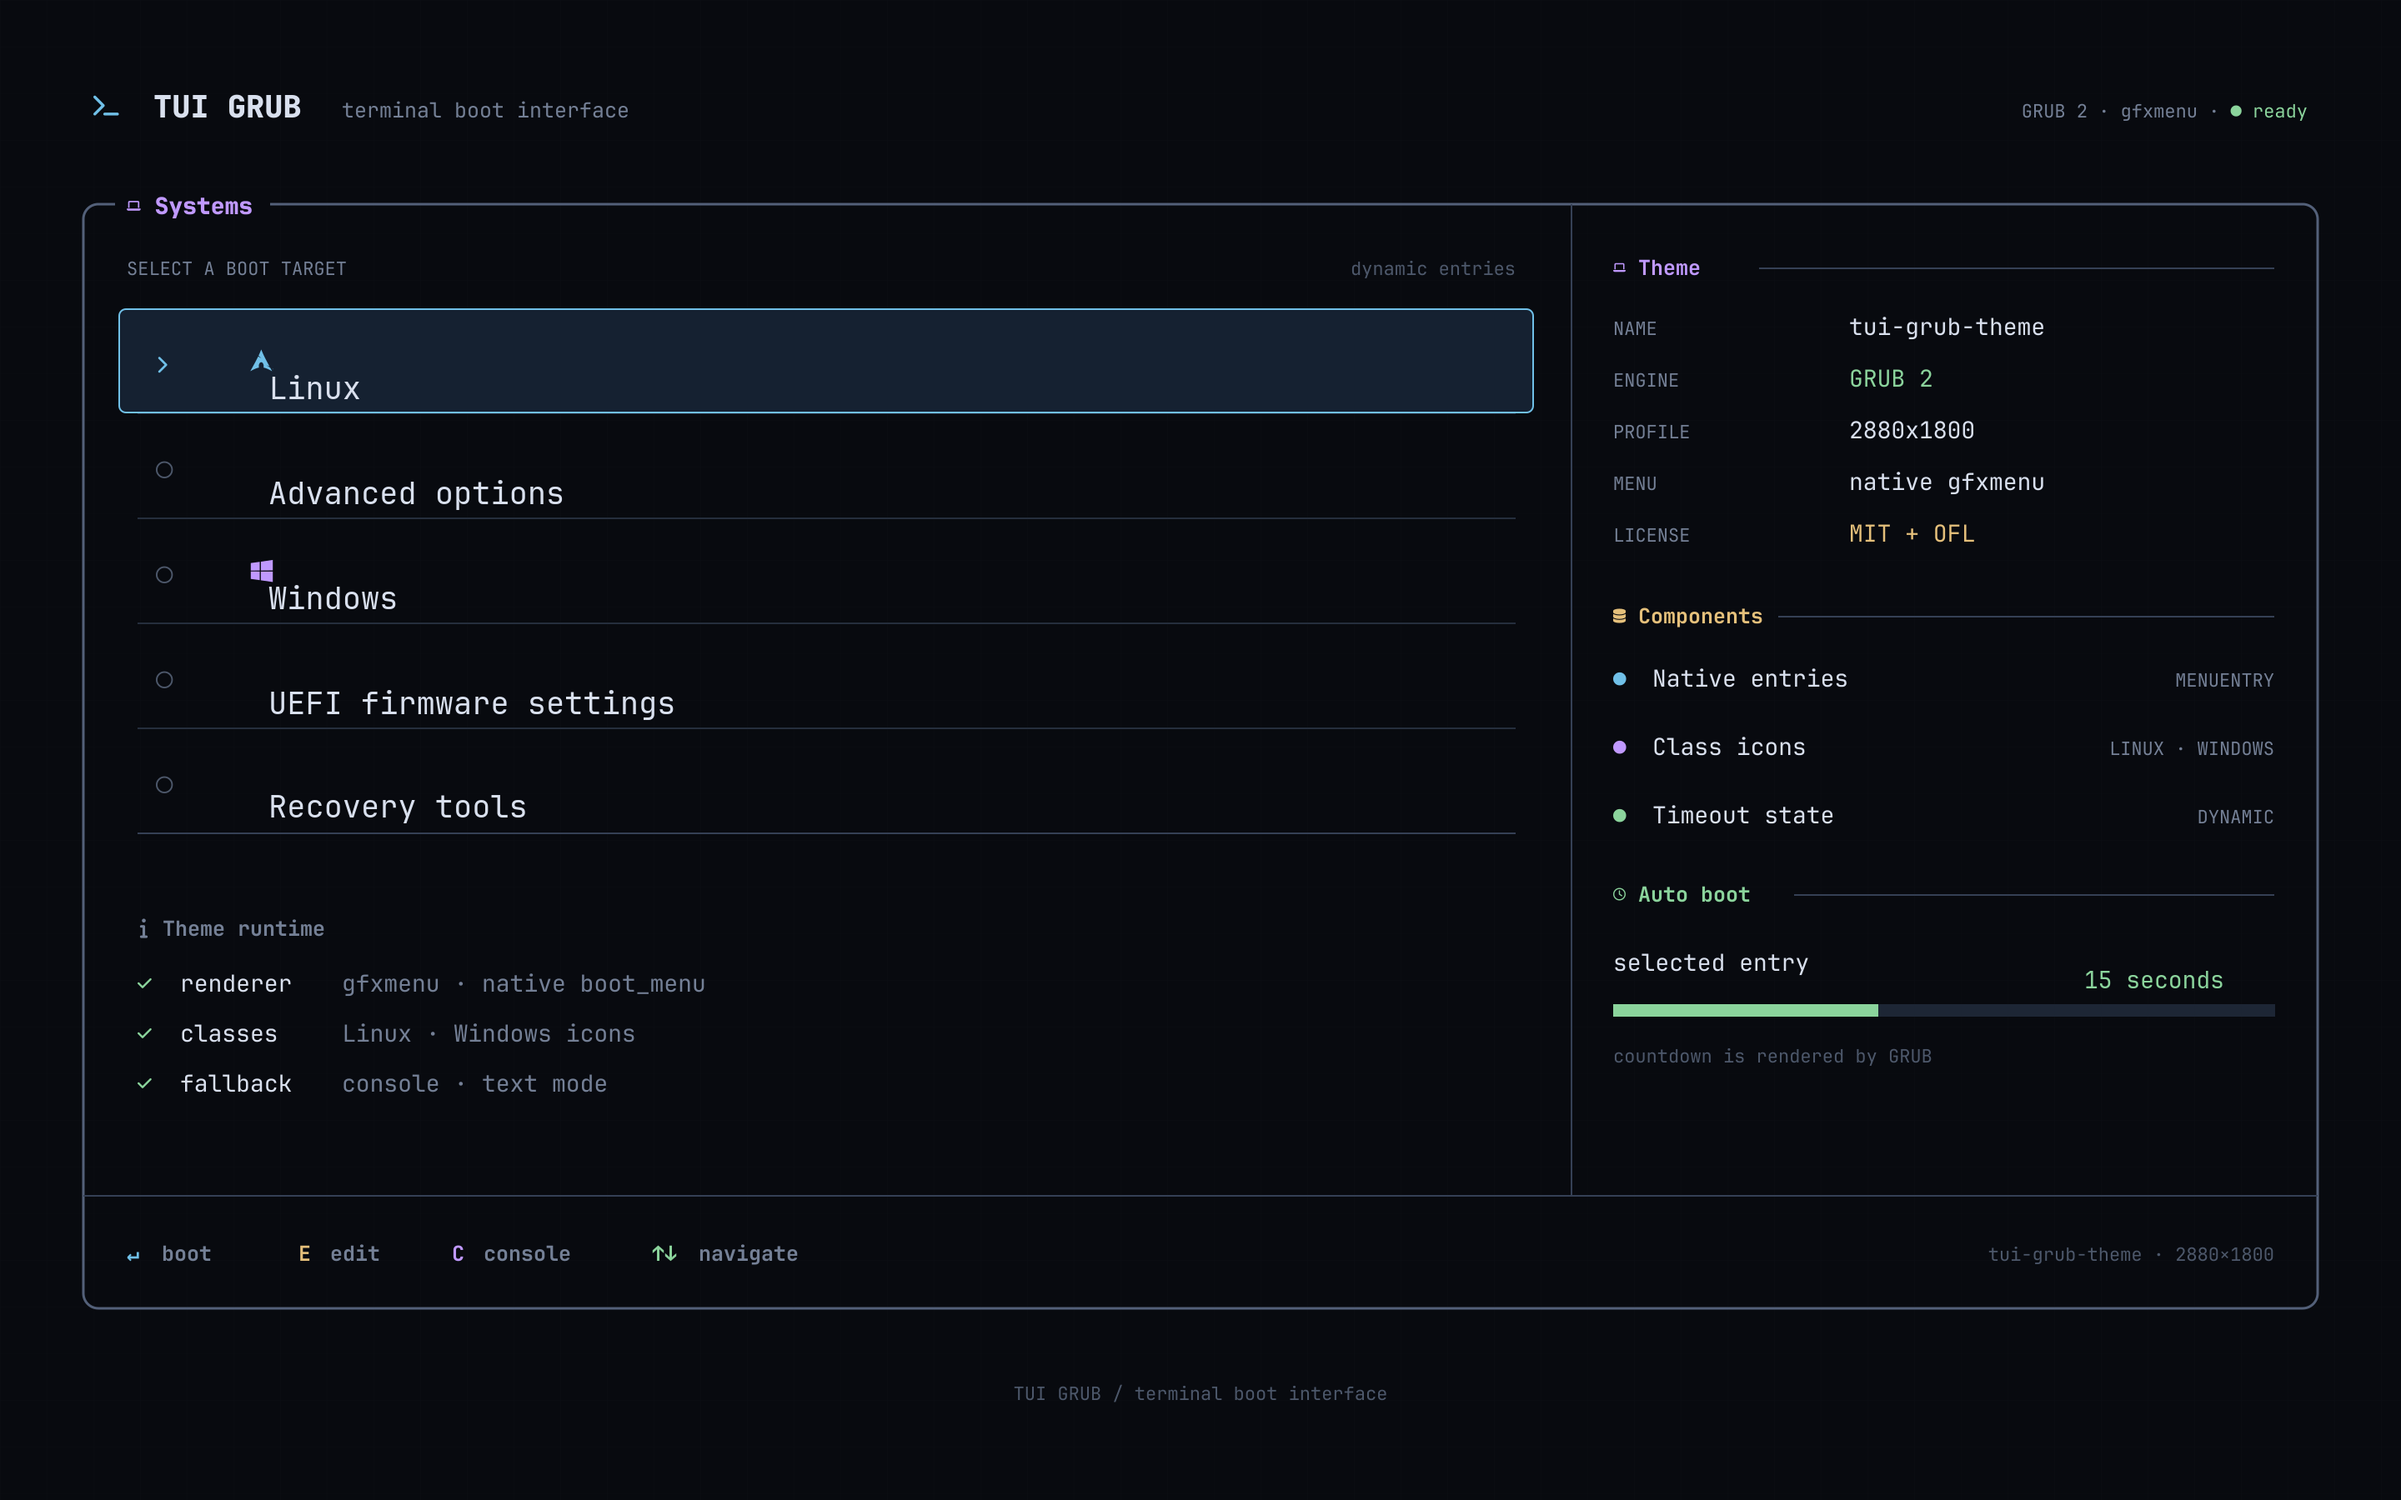
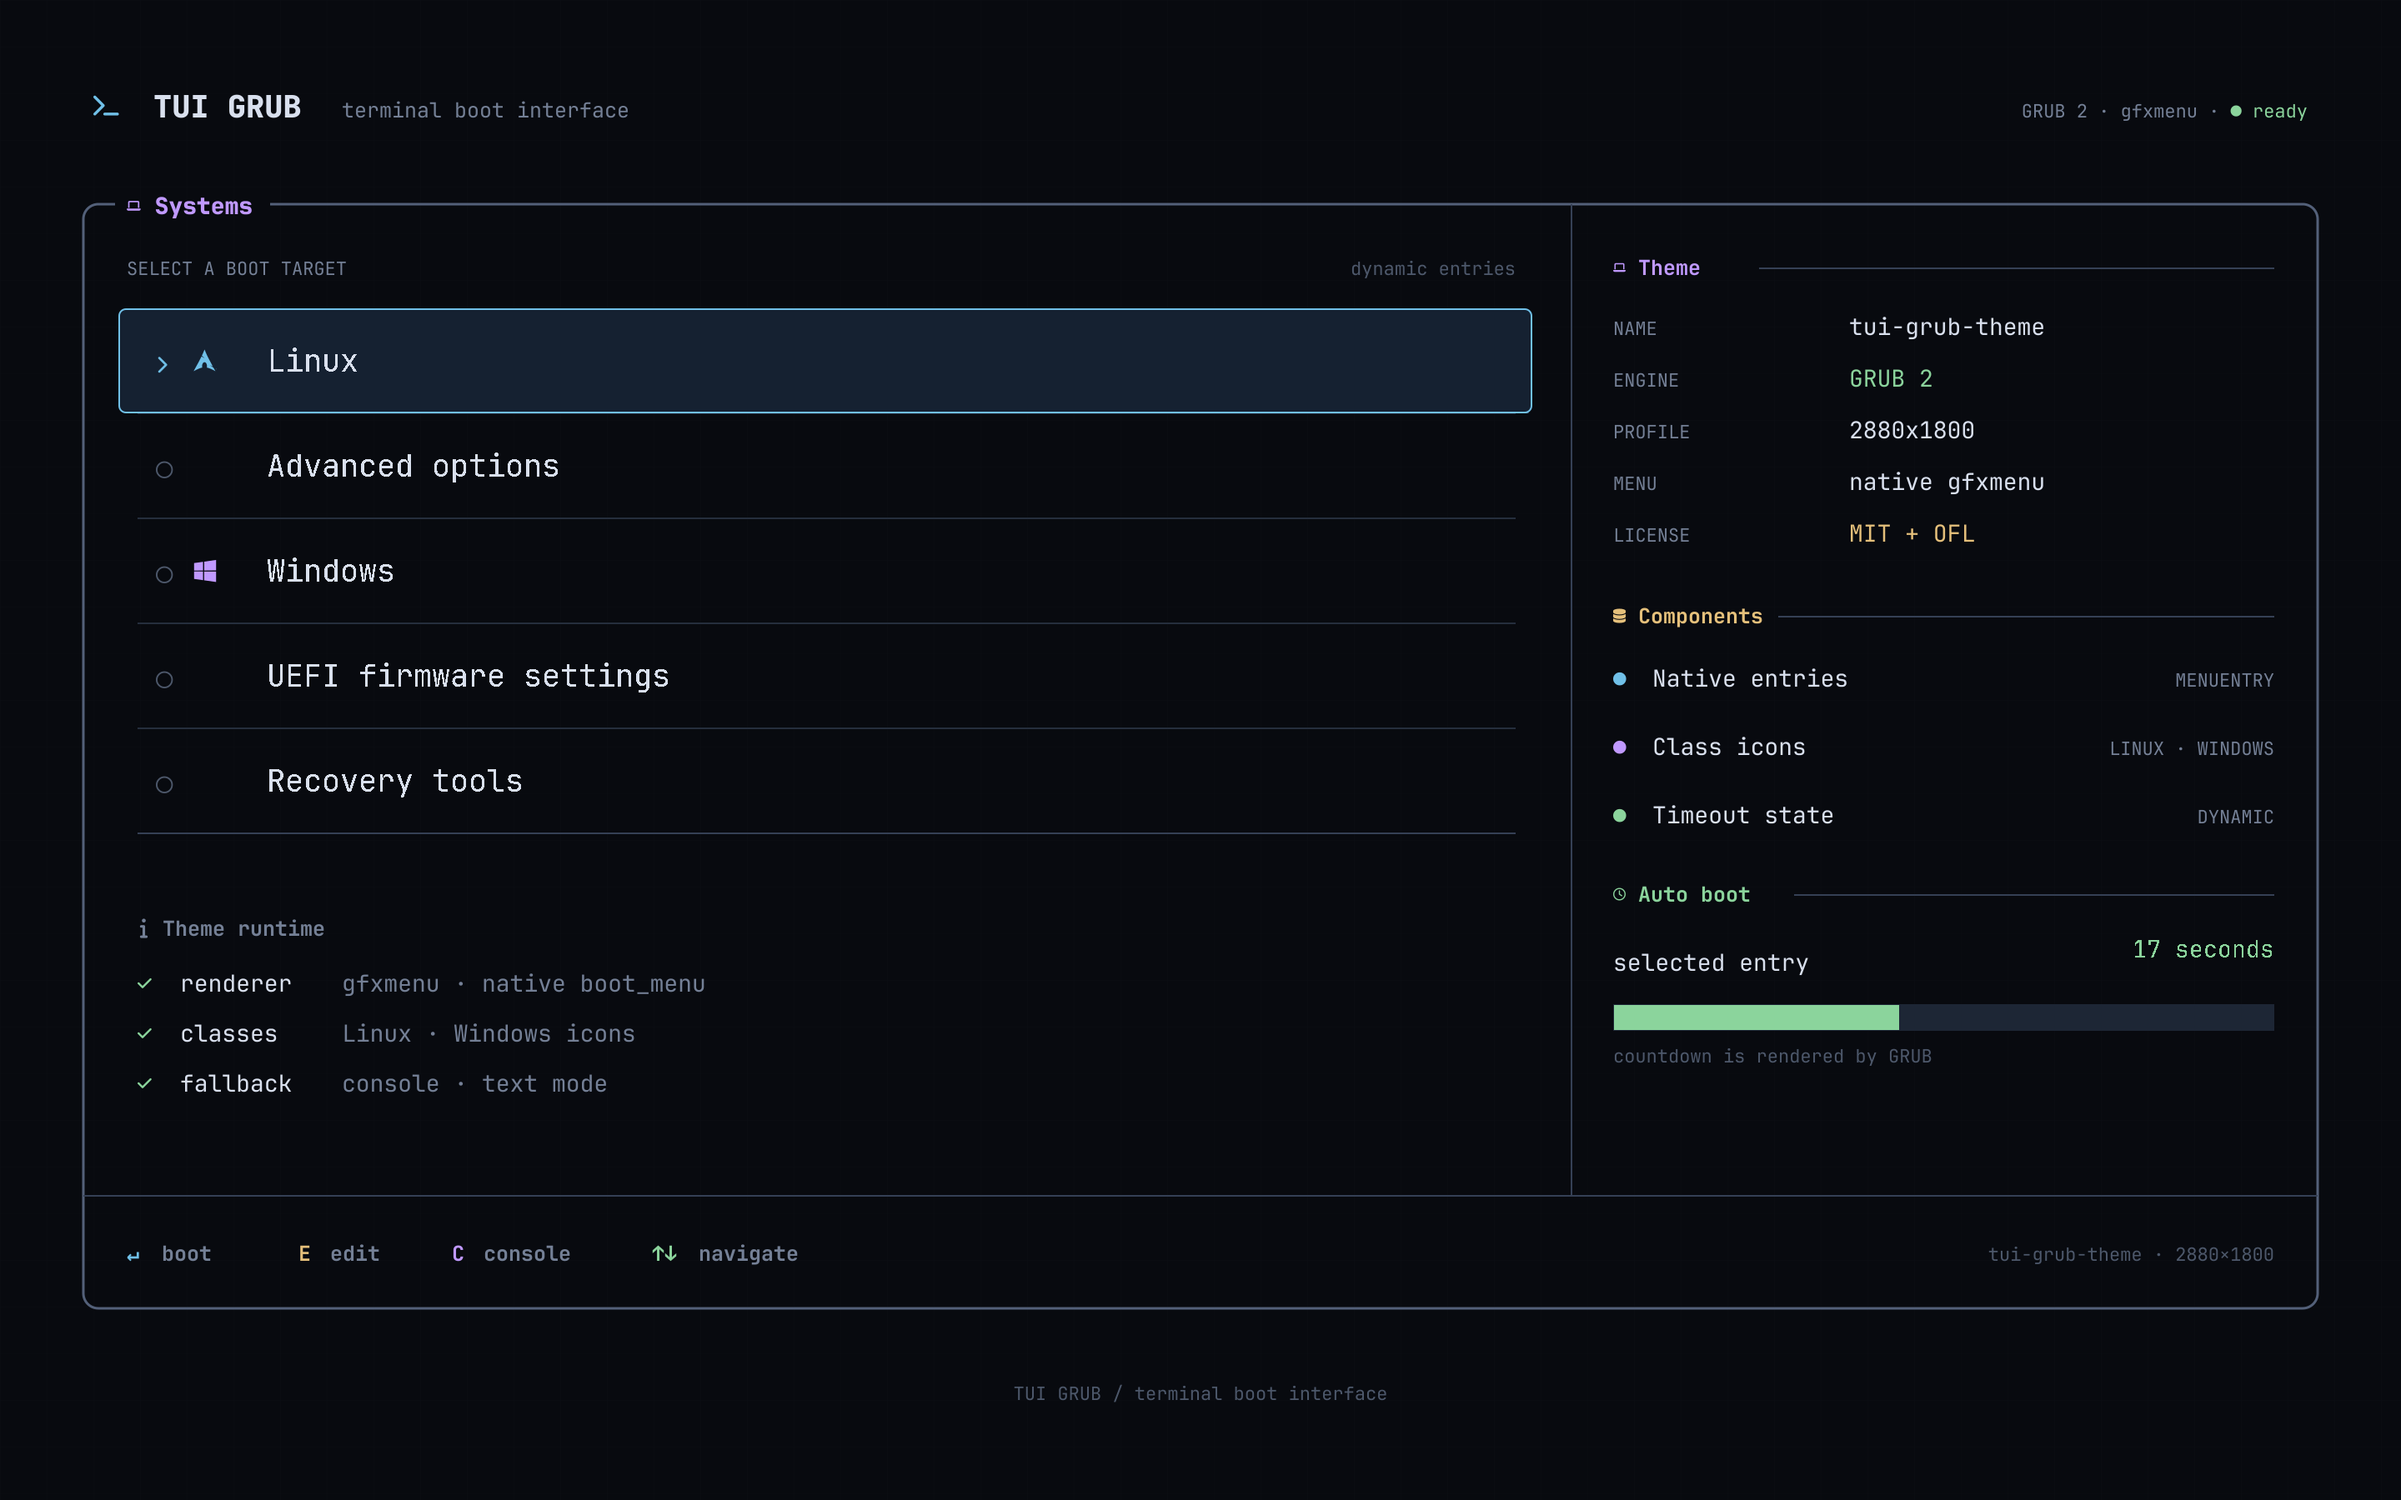
Replace composited boot preview captures

diff --git a/CONTRIBUTING.md b/CONTRIBUTING.md
@@ -4,6 +4,8 @@
 2. Run `make build` to refresh `dist/tui-grub-theme/` and the resolution profiles.
 3. Run `make check` before committing.
 4. Include an updated QEMU screenshot for visible layout changes.
+5. Capture menu content from a live GRUB or Ventoy framebuffer. Do not
+   composite icons, labels, selection states, or countdown values into it.
 
 For the Ventoy variant, edit `ventoy/src/`, then run `make build-ventoy` and
 `make check-ventoy`. Keep `ventoy/dist/ventoy/` deployable as a complete tree.

diff --git a/CHANGELOG.md b/CHANGELOG.md
@@ -15,6 +15,7 @@ All notable changes to this project are documented here.
 
 ### Changed
 
+- Replaced the GRUB and Ventoy previews with direct 2880x1800 QEMU framebuffer captures.
 - Renamed every deployable theme directory to `tui-grub-theme`.
 - Replaced device-named GRUB variants with generic resolution profiles.
 - Removed host names, disk models, UUIDs, and device branding from backgrounds.
